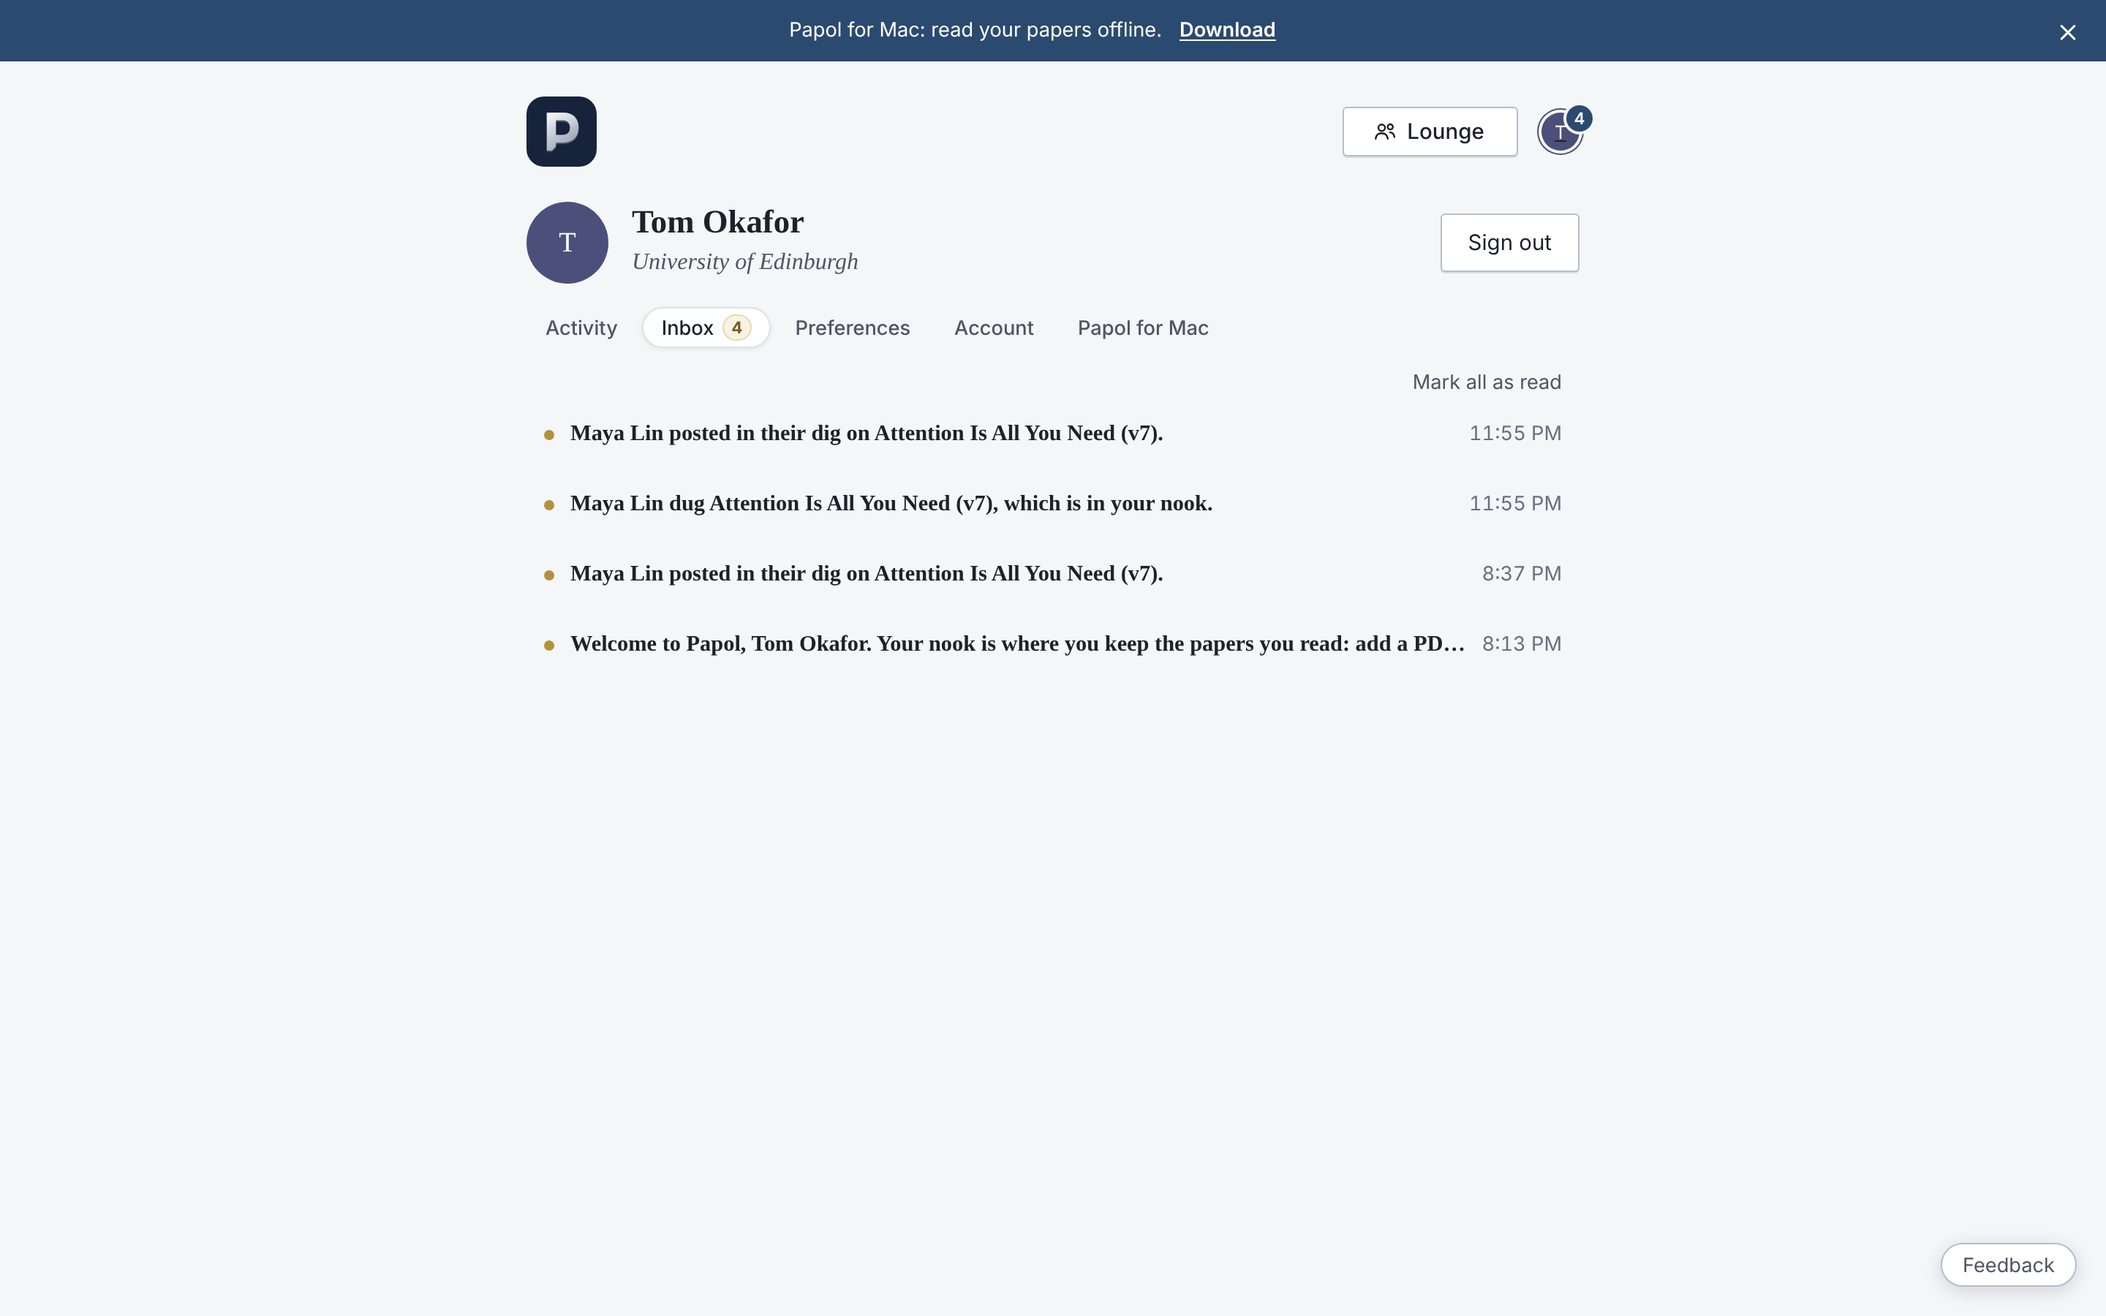
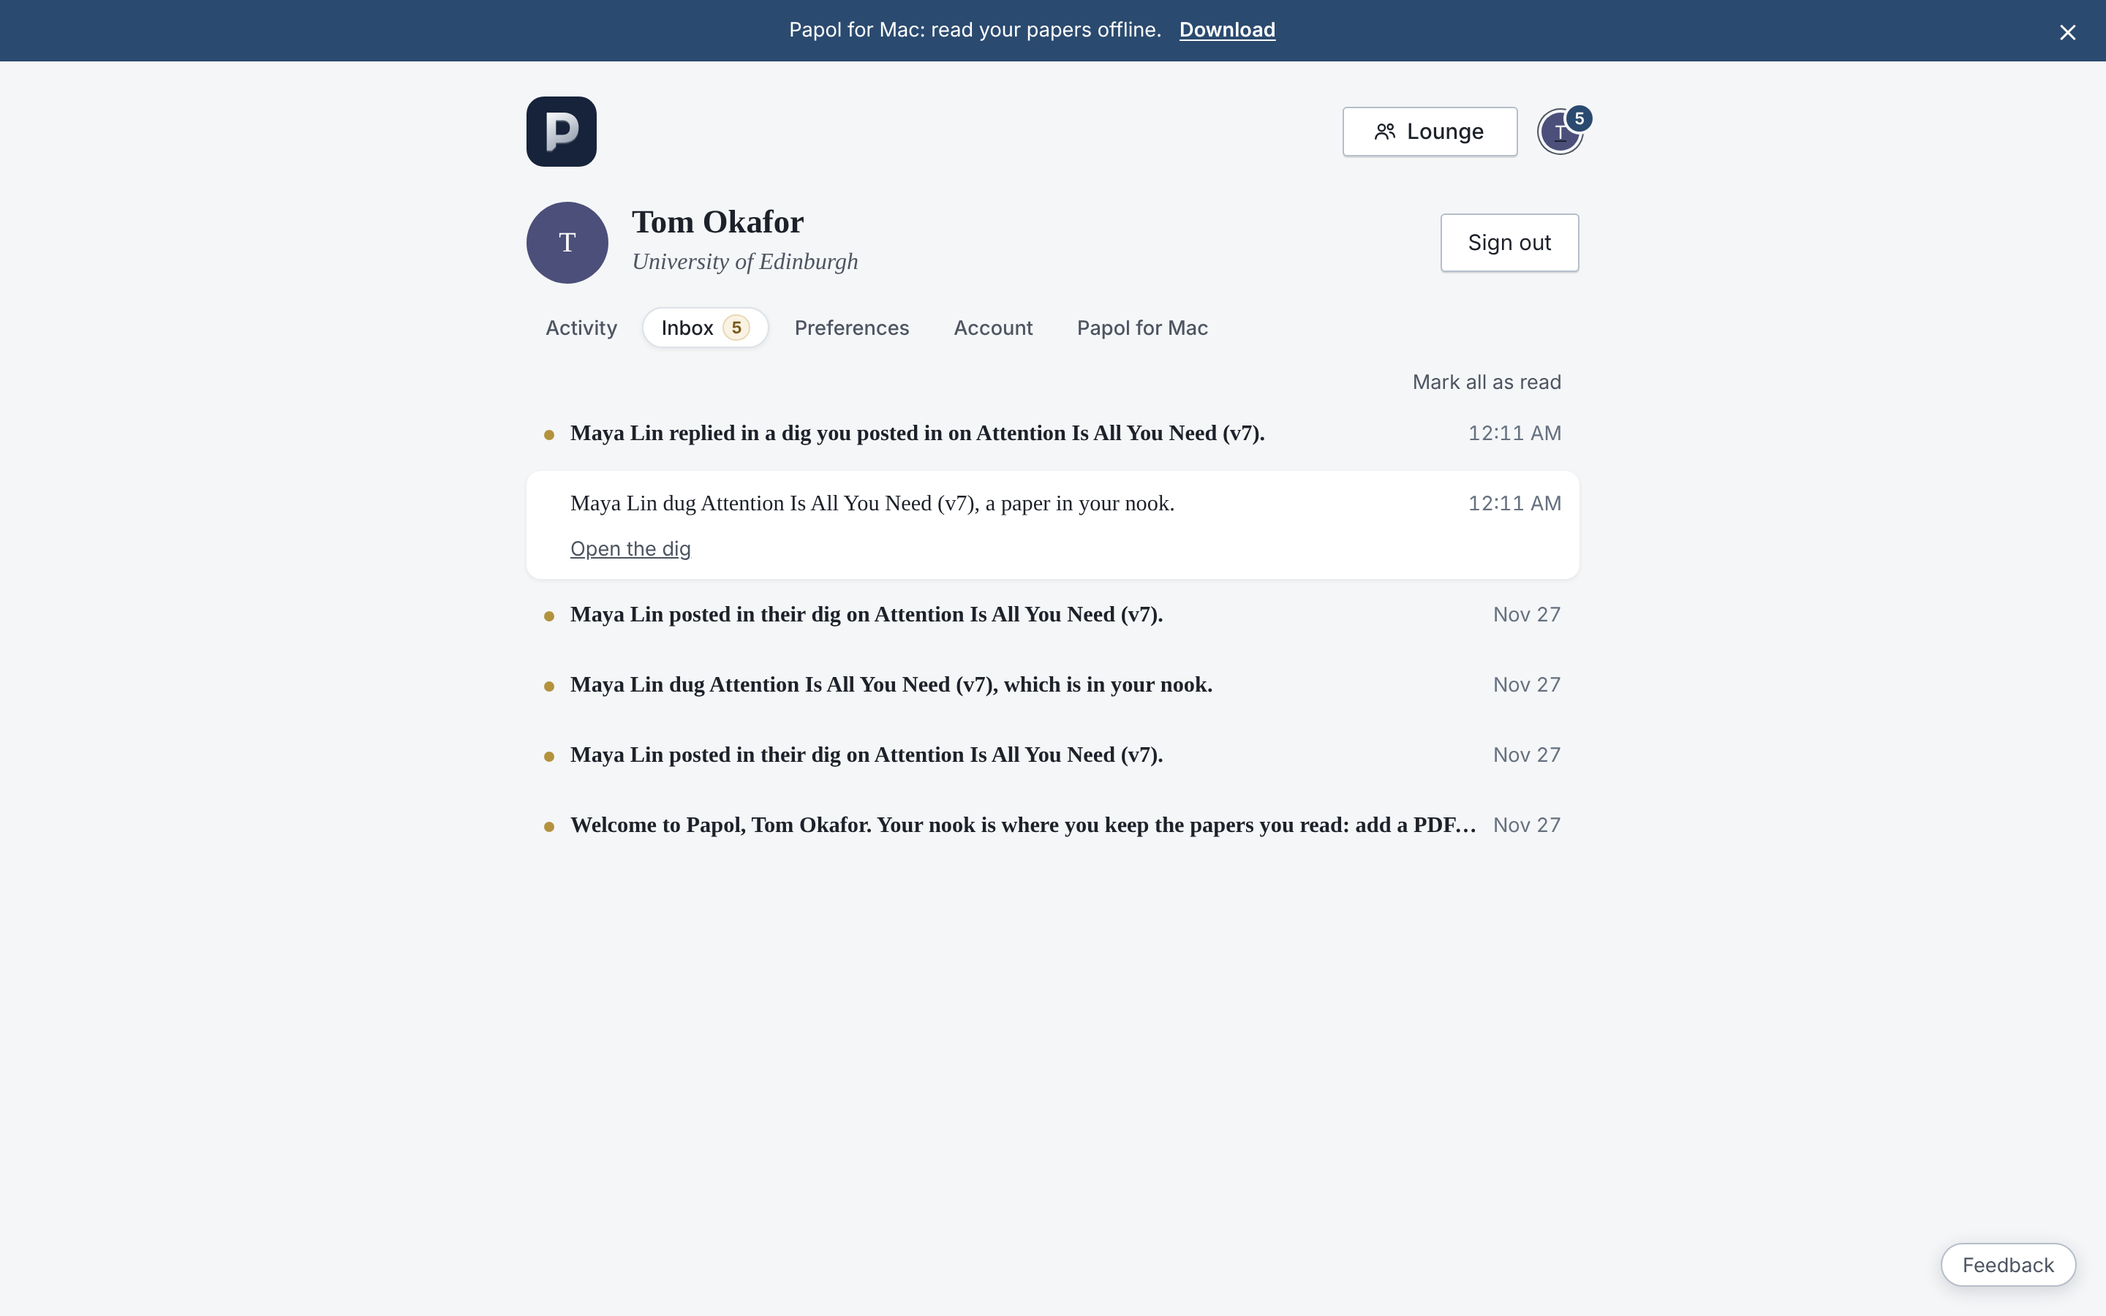
Notifications: lead to the dig, say it plainly, and leave the Lounge email what a weekly one would hold back
A line in the inbox and an email about a dig now open the jacket at
that dig, marked for a moment; a link inside the app keeps the place it
names. A post reads 'replied in your dig', 'in a dig you posted in' or
'in Ada's dig', and a friend's dig 'a paper in your nook'. The email of
the Lounge leaves out only what its reader is emailed at once or every
day.

Claude-Session: https://claude.ai/code/session_01PQZzMS6aJCZGme4NASAkAz

diff --git a/cloudflare/src/routes/digs.ts b/cloudflare/src/routes/digs.ts
@@ -134,6 +134,10 @@ async function ownSubjectOf(env: Env, me: User, key: unknown): Promise<Subject> 
 // A dig of one's own, read the way a project's are: nothing in it is new.
 const OWN: Member = { seen_at: "9999" } as Member;
 
+// Where a line about a dig leads: the paper's jacket, at that dig
+// (PaperJacket.jsx scrolls to it).
+const digLink = (dig: Dig) => `/paper/${String(dig.paper_sha256).slice(0, 32)}#dig-${dig.uuid}`;
+
 // A dig of one's own on a paper is news to the friends who keep that
 // paper on a shelf of their nook, while they can read it (friendSees):
 // a line in each one's inbox, and an email as often as they chose for
@@ -147,9 +151,9 @@ async function tellKeepers(env: Env, dig: Dig, me: User, at: string): Promise<vo
        AND EXISTS (SELECT 1 FROM digs d WHERE d.uuid = ? AND ${friendSees("u.uuid")})`, me.uuid, dig.paper_sha256, dig.uuid);
   if (!keepers.length) return;
   const paper = await one<{ title: string }>(env.DB, "SELECT title FROM papers WHERE sha256 = ?", dig.paper_sha256);
-  const link = `/paper/${dig.paper_sha256.slice(0, 32)}`;
+  const link = digLink(dig);
   const site = (await siteUrl(env)).replace(/\/$/, "");
-  const line = `${me.display_name} dug ${paper?.title ?? "a paper"}, which is in your nook.`;
+  const line = `${me.display_name} dug ${paper?.title ?? "a paper"}, a paper in your nook.`;
   const mails: Queued[] = [];
   const told = keepers.map((them) => {
     const mail = queueEmail(env.DB, "friend_dig", them, `${me.display_name} dug a paper in your nook`,
@@ -450,19 +454,19 @@ export function digRoutes(router: Router) {
       const paper = await one<{ title: string }>(env.DB, "SELECT title FROM papers WHERE sha256 = ?", dig.paper_sha256);
       const owner = await one<{ display_name: string }>(env.DB, "SELECT display_name FROM users WHERE uuid = ?", dig.user_uuid);
       const others = await all<{ user_uuid: string }>(env.DB, "SELECT DISTINCT user_uuid FROM dig_posts WHERE dig_uuid = ?", dig.uuid);
-      const link = `/paper/${dig.paper_sha256.slice(0, 32)}`;
+      const link = digLink(dig);
       const site = (await siteUrl(env)).replace(/\/$/, "");
       for (const uuid of new Set([dig.user_uuid, ...others.map((o) => o.user_uuid)])) {
         if (uuid === me.uuid) continue;
         // Someone who can no longer read the dig is not told of it: a friend
         // no longer one, or anyone once the paper went to a private shelf.
         if (uuid !== dig.user_uuid && !(await one(env.DB, `SELECT 1 FROM digs d WHERE d.uuid = ? AND ${friendSees(userLiteral(uuid))}`, dig.uuid))) continue;
-        const whose = uuid === dig.user_uuid ? "your" : dig.user_uuid === me.uuid ? "their" : `${owner?.display_name ?? "a friend"}'s`;
-        const line = `${me.display_name} posted in ${whose} dig on ${paper?.title ?? "a paper"}.`;
+        const whose = uuid === dig.user_uuid ? "your dig" : dig.user_uuid === me.uuid ? "a dig you posted in" : `${owner?.display_name ?? "a friend"}'s dig`;
+        const line = `${me.display_name} replied in ${whose} on ${paper?.title ?? "a paper"}.`;
         told.push(notice(env, uuid, line, "dig_post", me, link, at));
         // And by email, as often as they chose for replies (emails.ts).
         const them = await one<User>(env.DB, "SELECT * FROM users WHERE uuid = ? AND deleted_at IS NULL", uuid);
-        const mail = them && queueEmail(env.DB, "dig_reply", them, `${me.display_name} posted in ${whose} dig on Papol`,
+        const mail = them && queueEmail(env.DB, "dig_reply", them, `${me.display_name} replied in ${whose} on Papol`,
           [line, "", excerpt(body), "", `Read it: ${site}${link}`, "", "— Papol"].join("\n"));
         if (mail) mails.push(mail);
       }

diff --git a/cloudflare/test/friends.test.ts b/cloudflare/test/friends.test.ts
@@ -246,10 +246,10 @@ describe("what a friend sees", () => {
     expect((await call("POST", `/api/digs/${onPaper.uuid}/posts`, { headers: alan.headers, json: { body: "?" } })).status).toBe(404);
 
     // Ada hears of it, and can answer now that somebody has posted.
-    expect((await inbox(ada))[0]).toMatchObject({ kind: "dig_post", content: "Grace posted in your dig on Out in the open.", link: `/paper/${name("a")}` });
+    expect((await inbox(ada))[0]).toMatchObject({ kind: "dig_post", content: "Grace replied in your dig on Out in the open.", link: `/paper/${name("a")}#dig-${onPaper.uuid}` });
     expect((await ok("GET", `/api/digs/${onPaper.uuid}`, { headers: ada.headers })).can_post).toBe(true);
     await ok("POST", `/api/digs/${onPaper.uuid}/posts`, { headers: ada.headers, json: { body: "Fair" } });
-    expect((await inbox(grace))[0]).toMatchObject({ kind: "dig_post", content: "Ada posted in their dig on Out in the open." });
+    expect((await inbox(grace))[0]).toMatchObject({ kind: "dig_post", content: "Ada replied in a dig you posted in on Out in the open." });
 
     // The shelf has the last word: private, and the dig is hers alone again; public, and it is back.
     await ok("PUT", `/api/papers/${name("a")}`, { headers: ada.headers, json: { shelf_uuid: await privateShelf(ada) } });
@@ -283,14 +283,14 @@ describe("what a friend is told", () => {
 
     // A dig: an inbox line for the friend who keeps the paper, and an email held for the day's.
     const dig = await ok("POST", "/api/digs", { headers: ada.headers, json: { subject: `paper:${digest("a")}`, text: "The bound in section 3 is loose" } });
-    expect((await inbox(grace))[0]).toMatchObject({ kind: "friend_dig", content: "Ada dug Out in the open, which is in your nook.", link: `/paper/${name("a")}`, actor: { uuid: ada.uuid } });
+    expect((await inbox(grace))[0]).toMatchObject({ kind: "friend_dig", content: "Ada dug Out in the open, a paper in your nook.", link: `/paper/${name("a")}#dig-${dig.uuid}`, actor: { uuid: ada.uuid } });
     expect(await rows("SELECT user_uuid, kind FROM email_held")).toEqual([{ user_uuid: grace.uuid, kind: "friend_dig" }]);
     expect((await mailed()).length).toBe(before);
     for (const other of [alan, eve]) expect((await inbox(other)).some((n: any) => n.kind === "friend_dig")).toBe(false);
 
     // A post in it: its writer is emailed at once, and whoever posted before, until they choose never.
     await ok("POST", `/api/digs/${dig.uuid}/posts`, { headers: grace.headers, json: { body: "Tight for d = 2 though" } });
-    expect((await mailed()).slice(before)).toMatchObject([{ to: "ada@example.test", subject: "Grace posted in your dig on Papol" }]);
+    expect((await mailed()).slice(before)).toMatchObject([{ to: "ada@example.test", subject: "Grace replied in your dig on Papol" }]);
     expect((await mailed())[before].body).toContain("Tight for d = 2 though");
     await ok("PUT", "/api/auth/profile", { headers: grace.headers, json: { emails: { dig_reply: "never" } } });
     await ok("POST", `/api/digs/${dig.uuid}/posts`, { headers: ada.headers, json: { body: "Fair" } });

diff --git a/frontend/src/components/PaperJacket.jsx b/frontend/src/components/PaperJacket.jsx
@@ -80,9 +80,28 @@ export default function PaperJacket({
     let active = true;
     friendDigsOn(paperName(paperSha256))
       .then((found) => { if (active) setFriendDigs(found.digs ?? []); })
-      .catch(() => {});
+      .catch(() => {})
+      .finally(() => { if (active) setDigsRead(paperSha256); });
     return () => { active = false; };
   }, [paperSha256, currentUser?.uuid, friends?.friends.length]);
+  // A link from the inbox or an email names one dig (#dig-<uuid>): once the
+  // friends' digs are in, the jacket goes to it, a friend's by its own row
+  // and otherwise mine, and marks it for a moment.
+  const [digsRead, setDigsRead] = useState(null);
+  useEffect(() => {
+    const named = window.location.hash.match(/^#dig-([0-9a-f-]{36})$/i)?.[1];
+    if (!named || digsRead !== paperSha256) return undefined;
+    const at = document.getElementById(`dig-${named.toLowerCase()}`) ?? document.getElementById('your-dig');
+    if (!at) return undefined;
+    // The digs above it are still filling with their posts, which moves
+    // it down the page: it is gone to again as they settle.
+    const go = () => at.scrollIntoView({ block: 'center' });
+    go();
+    at.classList.add('is-pointed');
+    const again = [300, 900].map((after) => setTimeout(go, after));
+    const done = setTimeout(() => at.classList.remove('is-pointed'), 3000);
+    return () => { [...again, done].forEach(clearTimeout); at.classList.remove('is-pointed'); };
+  }, [digsRead, paperSha256]);
   const [isAddingToNook, setIsAddingToNook] = useState(false);
   const [isExtractingMetadata, setIsExtractingMetadata] = useState(false);
   const [metadataExtractStatus, setMetadataExtractStatus] = useState('Reading PDF…');
@@ -506,7 +525,7 @@ export default function PaperJacket({
   // The reader's own dig on the paper, which they write whether or not
   // they keep it.
   const yourDig = (
-    <section className="paper-dig" aria-labelledby="paper-dig-title">
+    <section className="paper-dig" id="your-dig" aria-labelledby="paper-dig-title">
       <h4 id="paper-dig-title">
         Your dig
         {/* A dig goes where its paper goes: on a public shelf, or on
@@ -1365,7 +1384,7 @@ export default function PaperJacket({
           <h4 id="paper-friend-digs-title">Friends’ digs</h4>
           <ul className="friend-digs">
             {friendDigs.map((dig) => (
-              <li key={dig.uuid} className="friend-dig">
+              <li key={dig.uuid} id={`dig-${dig.uuid}`} className="friend-dig">
                 {/* The dig's own first line already says whose it is and when,
                     so what stands over it is what it is about: the whole
                     paper, or a place in it, which opens the paper there. */}

diff --git a/cloudflare/src/jobs/lounge.ts b/cloudflare/src/jobs/lounge.ts
@@ -33,6 +33,11 @@ import { mailConfigured, sendEmails, type Mail } from "./mail";
 import { siteUrl } from "./notifications";
 import { enqueue, wake } from "./queue";
 
+// An email of its own that comes at least as soon as this one does: what
+// it says is left out here. One chosen weekly or never is not, so nobody
+// waits a week for what the Lounge would have said today.
+const SOON: Frequency[] = ["now", "daily"];
+
 export const LOUNGE_NEWS = "lounge_news";
 
 // Users to a job: each costs the room's queries, and one batch of mail.
@@ -82,7 +87,7 @@ function didWith(line: Row, reader: string): string {
 // done after `since` by someone other than the reader, oldest first
 // under each as a conversation reads.
 //
-// `told` names what the reader is already emailed about on its own
+// `told` names what the reader is emailed about on its own, at once or daily
 // (emails.ts): a friend's dig on a paper in their nook, a post in a dig
 // they are in. Those lines are left out, so nothing is said twice.
 export function itemsOf(rows: RoomRow[], reader: string, since: string, told: { friend_dig?: boolean; dig_reply?: boolean } = {}): Item[] {
@@ -228,7 +233,7 @@ export async function loungeNewsJob(env: Env, payload: Row): Promise<Row> {
   for (const user of users) {
     const since = newsSince(user, user.often, Date.parse(at));
     const items = itemsOf((await latest(env, user, since)).rows, user.uuid, since,
-      { friend_dig: frequencyOf(user, "friend_dig") !== "never", dig_reply: frequencyOf(user, "dig_reply") !== "never" });
+      { friend_dig: SOON.includes(frequencyOf(user, "friend_dig")), dig_reply: SOON.includes(frequencyOf(user, "dig_reply")) });
     if (items.length) mails.push(loungeMail(user, items, site, user.often));
   }
   if (mails.length) await sendEmails(env, mails);

diff --git a/shared/applicationStyles.js b/shared/applicationStyles.js
@@ -6120,6 +6120,9 @@ ${talkStyles}
 /* A friend's dig on a paper's jacket: whose, where, then the dig itself. */
 .paper-friend-digs { margin-top: var(--space-5); }
 .paper-friend-digs > h4 { margin-bottom: var(--space-2); }
+/* The dig a link from the inbox named, for a moment. */
+:is(.friend-dig, #your-dig) { border-radius: var(--radius); transition: box-shadow var(--motion-fast) var(--ease-out); }
+:is(.friend-dig, #your-dig).is-pointed { box-shadow: 0 0 0 6px var(--card), 0 0 0 8px var(--accent); }
 .friend-digs { display: grid; grid-template-columns: minmax(0, 1fr); gap: var(--space-4); margin: 0; padding: 0; list-style: none; }
 /* A dig on the jacket, mine or a friend's, top to bottom: what it is about, the dig itself tinted
    and set in as my own is, then what was posted under it and the box that

diff --git a/cloudflare/test/lounge.test.ts b/cloudflare/test/lounge.test.ts
@@ -163,6 +163,14 @@ describe("the email of the Lounge", () => {
     await day();
     expect(to(grace).text).toContain("Ada dug");
     expect(to(ada).text).toContain("Grace posted in your dig");
+
+    // Chosen weekly, it is said here too: nobody waits a week for what the Lounge would say today.
+    await exec("UPDATE users SET lounge_mailed_at = NULL");
+    await ok("PUT", "/api/auth/profile", { headers: grace.headers, json: { emails: { friend_dig: "weekly" } } });
+    await exec("UPDATE jobs SET status = 'done' WHERE kind = 'lounge_news'");
+    emailApi();
+    await day();
+    expect(to(grace).text).toContain("Ada dug");
   });
 
   it("is sent as often as each user chose in Preferences", async () => {

diff --git a/frontend/src/components/InboxPage.jsx b/frontend/src/components/InboxPage.jsx
@@ -154,7 +154,7 @@ export default function InboxPage({ onUnread }) {
               </span>
             ) : n.link && expanded[n.uuid] ? (
               <span className="notification-acts">
-                <a className="notification-link" href={appPath(n.link)}>{n.kind === 'dig_post' ? 'Open the paper' : n.kind?.startsWith('project_') ? 'Open the project' : 'Open their nook'}</a>
+                <a className="notification-link" href={appPath(n.link)}>{n.kind === 'dig_post' || n.kind === 'friend_dig' ? 'Open the dig' : n.kind?.startsWith('project_') ? 'Open the project' : 'Open their nook'}</a>
               </span>
             ) : null}
           </li>

diff --git a/frontend/src/App.jsx b/frontend/src/App.jsx
@@ -835,7 +835,8 @@ export default function App({ startupUser = null, startupError = null }) {
     // the nook (an upload's form) is put away, even when the address is
     // the nook's already and the move itself would change nothing.
     if (routePath === '/' && !destination.search) window.dispatchEvent(new Event(GOING_HOME));
-    navigate(`${routePath}${destination.search}`);
+    // A place named on the page it leads to (a dig on a jacket) goes with it.
+    navigate(`${routePath}${destination.search}${destination.hash}`);
   };
 
   // The page a visitor lands on offers Papol to try and nothing else: no

diff --git a/USER_STORIES.md b/USER_STORIES.md
@@ -89,8 +89,8 @@ papers in, and I decide where they go.
 
 - **US-4.1** As a user, I have an **Inbox** in the navigation with an unread badge; opening it shows what Papol has told me (the welcome, and for an admin, feedback) and marks it read.
 - **US-4.2** The Inbox also carries what people ask of me, each with its answer or its place beside it: a friend request (**Accept**, **Not now**), a request accepted, a friend's dig on a paper on a shelf of my nook, a post in a dig outside a project that I wrote or posted in, and someone asking to join a project I keep. A friend request is also emailed once, as often as I chose in Preferences (US-9.6c), and so are a friend's dig (US-4.2a) and a post (US-4.2b); the rest are never emailed.
-- **US-4.2a** **I am told when a friend digs a paper in my nook.** When a friend writes a dig on a paper I keep on a shelf, or on a mark of theirs on it, and I can read it, a line reaches my Inbox that opens the paper's jacket, and Papol emails it as often as I chose for *Friends' digs on papers in your nook*: once a day to begin with. A paper I only read or wrote on, under Passing, is not in my nook and I am not told. A dig in a project tells nobody this way.
-- **US-4.2b** **I am told when someone posts in a dig I am in.** A dig I wrote, or one I posted in, is one I am in: a post there by someone else reaches my Inbox, and Papol emails it as often as I chose for *Replies in digs you wrote or posted in*: at once to begin with. The email of the Lounge (US-10.16) leaves out what these two already email me, unless I chose never for them.
+- **US-4.2a** **I am told when a friend digs a paper in my nook.** When a friend writes a dig on a paper I keep on a shelf, or on a mark of theirs on it, and I can read it, a line reaches my Inbox that opens the paper's jacket at that dig, marked for a moment, and Papol emails it as often as I chose for *Friends' digs on papers in your nook*: once a day to begin with. A paper I only read or wrote on, under Passing, is not in my nook and I am not told. A dig in a project tells nobody this way.
+- **US-4.2b** **I am told when someone posts in a dig I am in.** A dig I wrote, or one I posted in, is one I am in: a post there by someone else reaches my Inbox, and Papol emails it as often as I chose for *Replies in digs you wrote or posted in*: at once to begin with. Its line and its email lead to that dig on the jacket. The email of the Lounge (US-10.16) leaves out what these two email me at once or every day; chosen weekly or never, the Lounge's email says it, so I never wait a week for it.
 
 ## 5b. Boards
 
